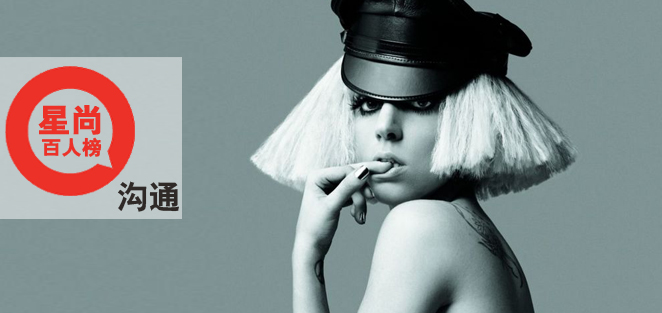
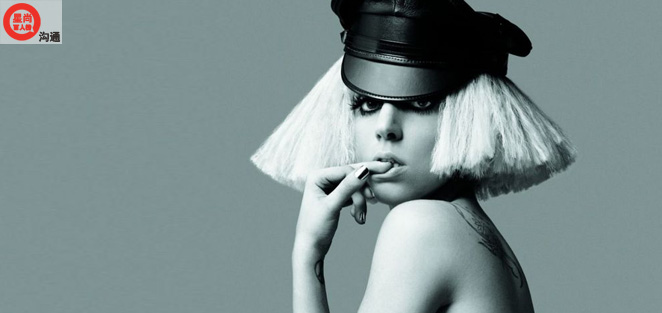
12 29

Changed region(s): [[0.0, 0.1725, 0.2719, 0.7188], [0.0, 0.0, 0.0906, 0.1438]]

diff --git a/public/html/xsvip.html b/public/html/xsvip.html
@@ -1,0 +1,159 @@
+<!DOCTYPE html PUBLIC "-//W3C//DTD XHTML 1.0 Transitional//EN" "http://www.w3.org/TR/xhtml1/DTD/xhtml1-transitional.dtd">
+<html xmlns="http://www.w3.org/1999/xhtml">
+<head>
+<meta http-equiv="Content-Type" content="text/html; charset=utf-8" />
+<title>星尚画报，星尚OK杂志！</title>
+<link href="../stylesheets/enjoyoungok.css" rel="stylesheet" type="text/css" />
+<link href="../stylesheets/thickbox.css" rel="stylesheet" type="text/css" />
+<link href="../stylesheets/ranking.css" rel="stylesheet" type="text/css" />
+<link href="../stylesheets/xsok.css" rel="stylesheet" type="text/css" />
+<script src="../javascripts//jquery-1.1.3.1.pack.js" type="text/javascript"></script>
+<script src="../javascripts/thickbox-compressed.js" type="text/javascript"></script>
+<script src="../javascripts/global.js" type="text/javascript"></script>
+<script type="text/javascript">
+$(function(){
+        $("#KinSlideshow").KinSlideshow({
+                moveStyle:"right",
+                titleBar:{titleBar_height:35,titleBar_bgColor:"#FFFFFF",titleBar_alpha:0.5},
+                titleFont:{TitleFont_size:14,TitleFont_color:"#000000",TitleFont_weight:"bolder"},
+                btn:{btn_bgColor:"#FFFFFF",btn_bgHoverColor:"#000000",btn_fontColor:"#000000",
+                     btn_fontHoverColor:"#FFFFFF",btn_borderColor:"#ffffff",
+                     btn_borderHoverColor:"#000000",btn_borderWidth:1}
+        });
+    })
+
+</script>
+<script type="text/javascript">
+function closereception2j(){
+$("#reception2j").slideUp("normal");
+}
+</script>
+<script type=text/javascript>
+	function setTab03Syn ( i )
+	{
+		selectTab03Syn(i);
+	}
+	
+	function selectTab03Syn ( i )
+	{
+		switch(i){
+			case 1:
+			document.getElementById("TabTab03Con1").style.display="block";
+			document.getElementById("TabTab03Con2").style.display="none";
+			document.getElementById("TabTab03Con3").style.display="none";
+			document.getElementById("font1").style.color="#ffffff";
+			document.getElementById("font2").style.color="#000000";
+			document.getElementById("font3").style.color="#000000";
+			break;
+			case 2:
+			document.getElementById("TabTab03Con1").style.display="none";
+			document.getElementById("TabTab03Con2").style.display="block";
+			document.getElementById("TabTab03Con3").style.display="none";
+			document.getElementById("font1").style.color="#000000";
+			document.getElementById("font2").style.color="#ffffff";
+			document.getElementById("font3").style.color="#000000";
+			break;
+			case 3:
+			document.getElementById("TabTab03Con1").style.display="none";
+			document.getElementById("TabTab03Con2").style.display="none";
+			document.getElementById("TabTab03Con3").style.display="block";
+			document.getElementById("font1").style.color="#000000";
+			document.getElementById("font2").style.color="#000000";
+			document.getElementById("font3").style.color="#ffffff";
+			break;
+		}
+	}
+
+</script>
+</head>
+<body>
+<form>
+  <div class="enjoyoungok">
+    <!--头-->
+    <div class="eyoktop">
+      <!--登录条-->
+      <div class="loginbar"><span style="margin-left:10px;"><strong><a href="#">登录</a><a>|</a><a href="#">注册</a></strong></span><span>
+        <input class="input" name="" type="text" />
+        </span><span>密码：</span><span>
+        <input class="input" name="" type="text" />
+        </span><span>用户名：</span>
+        <div class="blank0"></div>
+      </div>
+      <!--登录结束-->
+      <div ><a href="#"><img src="../images/eyok.jpg" /></a></div>
+      <!--导航tiao-->
+      <div class="oknav">
+        <div class="oknav_a1"><a class="current">首 页</a><a href="#">天 下</a><a href="#">商 业</a><a href="#">文 化</a><a href="#">设 计</a><a href="#">精 英</a><a href="#">时 尚</a><a href="#">指 南</a></div>
+        <div class="oknav_a2"><span >
+          <input name="input" type="text" size="22" />
+          </span><span><a href="#"><img src="../images/eyok02.jpg" /></a></span><span><a href="#"><img src="../images/eyok03.jpg" /></a></span>
+          <div class="blank0"></div>
+        </div>
+        <div class="blank0"></div>
+      </div>
+      <!--导航结束-->
+    </div>
+    <!--头结束-->
+    <!--内容-->
+    <div class="content">
+      <!--跑马灯-->
+      <div id="reception2j">
+        <div class="news2j">
+          <marquee scrollamount="3" onmouseover= "this.stop(); "   onmouseout= "this.start(); ">
+          <a href="#">最新消息最新消息最新消息最新消息最新消息最新消息最新消息最新消息</a>
+          </marquee>
+        </div>
+        <div id="closeb" > <a href="javascript:;" onclick="closereception2j();" title="关闭"><img src="../images/eyok05.jpg" /></a> </div>
+      </div>
+      <!--跑马灯结束-->
+      <!--vip-->
+      <div class="xs_vip">
+      <div class="xsvip01"><img src="../images/xsok/xs10.jpg" /></div>
+      <div class="xsvip02">
+      <span><img src="../images/xsok/xs11.jpg" /></span>
+      <span class="vipspan"><table width="85%" border="0" cellspacing="0" cellpadding="3" style=" line-height:24px; margin:0px 0 0 40px; text-align:left; ">
+  <tr>
+    <td width="20%">卡号：</td>
+    <td width="59%"><input name="" type="text" size="30" /></td>
+    <td width="21%">*必填</td>
+  </tr>
+  <tr>
+    <td>密码：</td>
+    <td><input name="" type="text" size="30" /></td>
+    <td>*必填</td>
+  </tr>
+  <tr>
+    <td>收件人姓名：</td>
+    <td><input name="" type="text" size="30" /></td>
+    <td>*必填</td>
+  </tr>
+  <tr>
+    <td>手机号：</td>
+    <td><input name="" type="text" size="30" /></td>
+    <td>*必填</td>
+  </tr>
+  <tr>
+    <td>详细地址：</td>
+    <td rowspan="2"><textarea name="" cols="24" rows="2" style="height:36px; "></textarea></td>
+    <td>*必填</td>
+  </tr>
+  <tr>
+    <td>&nbsp;</td>
+    <td>&nbsp;</td>
+  </tr>
+</table>
+</span>
+      <span class="vipspan01"><div class="vipspan01l">此卡解释权归星尚传媒有限公司</div><div class="vipspan01r"><a href="#"><img src="../images/xsok/xs14.jpg" /></a></div><div class="blank0"></div></span>
+      </div>
+      <div class="blank20"></div>
+    </div>
+      <!--VIP结束-->
+    </div>
+    <!--内容结束-->
+    <!--底部-->
+    <div class="footer"><span style="background:#dce0df"><a href="ifram/aboutus.html?keepThis=true&amp;TB_iframe=true&amp;height=400&amp;width=605" title="关于我们" class="thickbox">关于我们</a><a href="ifram/contactus.html?keepThis=true&amp;TB_iframe=true&amp;height=400&amp;width=605" title="联系我们" class="thickbox">联系我们</a><a href="ifram/advertising.html?keepThis=true&amp;TB_iframe=true&amp;height=400&amp;width=605" title="广告投放" class="thickbox">广告投放</a><a href="ifram/copyright.html?keepThis=true&amp;TB_iframe=true&amp;height=400&amp;width=605" title="版权声明" class="thickbox">版权声明</a><a href="http://www.enjoyoung.cn/recuritment/" target="_blank">加入我们</a></span><span><a href="http://meishi.enjoyoung.cn/" target="_blank">人气美食</a>|<a href="http://www.enjoyoung.cn/" target="_blank">星尚传媒</a>|<a href="http://www.anni.com/" target="_blank">爱你网</a>|<a href="http://www.smg.cn/" target="_blank">SMG</a></span><span><a class="hui">本站发布的所有内容，未经许可，不得转载，详见《版权申明》-沪ICP备09055423©2009-2014 enjoyoung.cn, 保留所有权利。</a></span></div>
+    <!--底部结束-->
+  </div>
+</form>
+</body>
+</html>

diff --git a/public/html/news_04.html b/public/html/news_04.html
@@ -6,7 +6,7 @@
 <link href="../stylesheets/ifram.css" rel="stylesheet" type="text/css" />
 </head>
 <body>
-<div class="news1"> <span ><a  class="news1title"><b style="color:#F00">传承</b>Sheikh Hamdan bin Mohammed bin Rashid al Maktoum </a></span>
+<div class="news1"> <span><img src="../images/news6.jpg" /></span><span ><a  class="news1title">迪拜王储 Sheikh Hamdan bin Mohammed bin Rashid al Maktoum </a></span>
   <div class="news2">
     <div class="news2right"><span class="share"><a class="hui" href="#">分享</a></span><span class="send"><a class="hui" href="#">发送</a></span><span class="favorites"><a class="hui" href="#">收藏</a></span></div>
     <div class="blank0"></div>
@@ -21,8 +21,9 @@
   <p>除了王子的富有和潇洒，哈曼丹拥有同龄人罕见的政治领导力。2006年，他被任命为迪拜执行议会主席，促成了迪拜的“2015年战略计划”，并热衷于为有特殊需要的人们建立一个“无阻碍的自由社会”。2006年9月，他发起成立了Takamul投资集团，希望能帮助有特殊需求的人士融入主流社会。同年11月，哈曼丹批准了一项前所未有的交通控制体系，目的是为了使迪拜的道路变得更加安全……相比起以慈善为事业的英国威廉王子，哈曼丹显然更富有政治实权，也更懂得驾驭权力的法则。 </p>
   <P>和他的父亲一样，哈曼丹也是个诗人。他的代表诗集《Fazza》集中体现了他的个性，浪漫，且迷恋家庭生活，而他的诗歌多半能带给人快乐、希望，并重温阿联酋的文化根源。据王储本人介绍，“Fazza”在阿联酋方言中有着独特的定义——是指急于帮助别人，愿意站到别人身旁的人。或许，这就是这位充满远大政治前途的王储，对自己的确切定义。</P>
   <p>不用急，未来十年间，哈曼丹王储有足够的时间来证明，自己不仅是位完美的王子，也能是位完美的国王。</p>
-  <div class="news3"><a>2012-12-13</a><a>12:12:12</a></div>
-  <div style="margin-bottom:10px;"><a class="hui">关键词：</a><a href="#" class="red">哈利波特</a></div>
+ <div class="blank30"></div>
+  <!--<div class="news3"><a>2012-12-13</a><a>12:12:12</a></div>
+  <div style="margin-bottom:10px;"><a class="hui">关键词：</a><a href="#" class="red">哈利波特</a></div>-->
   <div class="news2">
     <div class="news2left" ></div>
     <div class="news2right"><span class="share"><a class="hui" href="#">分享</a></span><span class="send"><a class="hui" href="#">发送</a></span><span class="favorites"><a class="hui" href="#">收藏</a></span></div>

diff --git a/public/html/news_01.html b/public/html/news_01.html
@@ -6,7 +6,7 @@
 <link href="../stylesheets/ifram.css" rel="stylesheet" type="text/css" />
 </head>
 <body>
-<div class="news1"> <span ><a  class="news1title"><b style="color:#F00">沟通</b>Lady Gaga 
+<div class="news1"> <span><img src="../images/news4.jpg" /></span><span ><a  class="news1title">Lady Gaga 
 </a></span>
   <div class="news2">
     
@@ -22,9 +22,9 @@
   <p>在成为Lady Gaga之前，她只是纽约一名普通的大学生。4 岁开始学钢琴，13岁写了第一首钢琴曲，17岁被纽约大学艺术学院录取。但突如其来的娱乐工业一夜之间接管了她的全部生活。之后，这个也算走过小清新路线的纽约姑娘一心想取代麦当娜，掌控全世界，为众人膜拜。</p>
   <p>是的，Lady Gaga的基因没变，她依然是人类的一份子。但她的确与众不同，自立了一门新式宗教，把现代娱乐工业带到了一个陌生而大胆的360度视角中。在这个视角中，似乎其他所有娱乐革新者一夜之间都变成了没长大的胆小鬼。</p>
   <p>说她超越了麦当娜，不仅仅因为她辨识度极高的街拍造型、独特的嗓音、狂乱的舞步，以及惊人的单曲下载量，更多是因为她的行为与言说，因为她在网络时代所展现的大胆而怪异的时代美学。她重新定义了反叛与艳俗，并将其高级定制，足让这个羞涩的世界发疯。</p>
-  <p>Lady Gaga创造了这个星球当下最独特的个案。据统计，她在社交网站Facebook上的粉丝有1000万，Twitter上的粉丝也超过600万，而这仅仅只在英语世界。但通过这个个案，我们仿佛也触摸到了未来的癫狂。</p>
-  <div class="news3"><a>2012-12-13</a><a>12:12:12</a></div>
-  <div style="margin-bottom:10px;"><a class="hui">关键词：</a><a href="#" class="red">哈利波特</a></div>
+  <p>Lady Gaga创造了这个星球当下最独特的个案。据统计，她在社交网站Facebook上的粉丝有1000万，Twitter上的粉丝也超过600万，而这仅仅只在英语世界。但通过这个个案，我们仿佛也触摸到了未来的癫狂。</p><div class="blank30"></div>
+  <!--<div class="news3"><a>2012-12-13</a><a>12:12:12</a></div>
+  <div style="margin-bottom:10px;"><a class="hui">关键词：</a><a href="#" class="red">哈利波特</a></div>-->
   <div class="news2">
     <div class="news2left" ></div>
     <div class="news2right"><span class="share"><a class="hui" href="#">分享</a></span><span class="send"><a class="hui" href="#">发送</a></span><span class="favorites"><a class="hui" href="#">收藏</a></span></div>

diff --git a/public/html/jh_02.html b/public/html/jh_02.html
@@ -6,7 +6,7 @@
 <link href="../stylesheets/ifram.css" rel="stylesheet" type="text/css" />
 </head>
 <body>
-<div class="news1"> <span ><a  class="news1title"><b style="color:#F00">传承</b>HRH Prince William of Wales </a></span>
+<div class="news1"> <span><img src="../images/news6.jpg" /></span><span ><a  class="news1title">HRH Prince William of Wales </a></span>
   <div class="news2">
     <div class="news2right"><span class="share"><a class="hui" href="#">分享</a></span><span class="send"><a class="hui" href="#">发送</a></span><span class="favorites"><a class="hui" href="#">收藏</a></span></div>
     <div class="blank0"></div>
@@ -21,8 +21,9 @@
   <p>王子不是一天长成的。威廉犯过所有人会犯的错，也得意于人生的寻常成就。作为一个不懂事的顽童，他会向小伙伴叫嚣：“当我做国王的时候，我将命令我的骑士来把你们的头砍下来”。作为一位出色的学生，他以A等成绩从伊顿公学毕业，又手握苏格兰二级甲等荣誉的文科硕士学位证书，成为“有史以来英国王室最聪明的王子”。作为全世界女孩最想嫁的王子，他将大学里的青梅竹马延续成另一出“皇室灰姑娘传奇”，续写了曾经属于母亲的幸福。皇室公布的订婚照中，威廉与未婚妻不是标准的皇家准夫妻神态，而是亲密无间的甜蜜相拥——这个细节让人没来由地相信，这段爱情经得起风雨。 </p>
   <p>未来十年，就像我们身边最寻常的80后一样，威廉王子必将经历娶妻生子之类的柴米油盐。无论成功或低谷，他的生活都是一部现实版的童话，伴着普通人同微笑，同落泪，同进退。</P>
 
-  <div class="news3"><a>2012-12-13</a><a>12:12:12</a></div>
-  <div style="margin-bottom:10px;"><a class="hui">关键词：</a><a href="#" class="red">哈利波特</a></div>
+  <div class="blank30"></div>
+  <!--<div class="news3"><a>2012-12-13</a><a>12:12:12</a></div>
+  <div style="margin-bottom:10px;"><a class="hui">关键词：</a><a href="#" class="red">哈利波特</a></div>-->
   <div class="news2">
     <div class="news2left" ></div>
     <div class="news2right"><span class="share"><a class="hui" href="#">分享</a></span><span class="send"><a class="hui" href="#">发送</a></span><span class="favorites"><a class="hui" href="#">收藏</a></span></div>

diff --git a/public/html/jh_01.html b/public/html/jh_01.html
@@ -6,7 +6,7 @@
 <link href="../stylesheets/ifram.css" rel="stylesheet" type="text/css" />
 </head>
 <body>
-<div class="news1"> <span ><a  class="news1title"><b style="color:#F00">沟通</b>范冰冰</a></span>
+<div class="news1"><span><img src="../images/news4.jpg" /></span> <span ><a  class="news1title">范冰冰</a></span>
   <div class="news2">
     <div class="news2right"><span class="share"><a class="hui" href="#">分享</a></span><span class="send"><a class="hui" href="#">发送</a></span><span class="favorites"><a class="hui" href="#">收藏</a></span></div>
     <div class="blank0"></div>
@@ -20,8 +20,9 @@
   <p>可以说，这些年来出道的年轻女演员，甚至是男演员都是以范冰冰的发展路径为蓝本，“男版范冰冰”、“年轻版范冰冰”们追随她，模仿她。无论是妖艳的大片妆容，复古的红毯造型，还是舍我其谁的言论，范冰冰都是业内的标杆人物。 </p>
   <p>2010年来，范冰冰不再海量接片，无论是《观音山》、《日照重庆》还是《赵氏孤儿》，她都用心演绎内心坚毅的女性形象。而她投资拍摄的电视剧《武则天》更是将强势女的风范展现得淋漓尽致。随着范冰冰工作室挂靠的博纳影业在美国成功上市，“范爷”已经将未来的视野投向了好莱坞。关于这一点，她说：“博纳在纳斯达克上市，虽然我没有股份，但作为合作方，我们的空间越来越广阔。我们可以向好莱坞融资，也可以向好莱坞投资电影。这比等着好莱坞导演邀请来的更直接更有效。”</P>
 
-  <div class="news3"><a>2012-12-13</a><a>12:12:12</a></div>
-  <div style="margin-bottom:10px;"><a class="hui">关键词：</a><a href="#" class="red">哈利波特</a></div>
+ <div class="blank30"></div>
+  <!--<div class="news3"><a>2012-12-13</a><a>12:12:12</a></div>
+  <div style="margin-bottom:10px;"><a class="hui">关键词：</a><a href="#" class="red">哈利波特</a></div>-->
   <div class="news2">
     <div class="news2left" ></div>
     <div class="news2right"><span class="share"><a class="hui" href="#">分享</a></span><span class="send"><a class="hui" href="#">发送</a></span><span class="favorites"><a class="hui" href="#">收藏</a></span></div>

diff --git a/public/html/jh_03.html b/public/html/jh_03.html
@@ -6,7 +6,7 @@
 <link href="../stylesheets/ifram.css" rel="stylesheet" type="text/css" />
 </head>
 <body>
-<div class="news1"> <span ><a  class="news1title"><b style="color:#F00">创新</b>Pardis Sabeti</a></span>
+<div class="news1"> <span><img src="../images/news5.jpg" /></span><span ><a  class="news1title">Pardis Sabeti</a></span>
   <div class="news2">
     <div class="news2right"><span class="share"><a class="hui" href="#">分享</a></span><span class="send"><a class="hui" href="#">发送</a></span><span class="favorites"><a class="hui" href="#">收藏</a></span></div>
     <div class="blank0"></div>
@@ -23,8 +23,9 @@
   <p>帕蒂丝认为，目前基因技术正处于变革之中。在不久的将来，每个人的基因都能得到迅速测序，甚至他们身上所感染的微生物基因也能得到测序，而流行病学研究者会被大量新信息淹没，下一个考验将出现在计算能力和集体工作方面。</P>
   <P>“在计算能力方面，我们可以开发更为强大的工具，以处理庞大的新数据，寻找与人类疾病问题有关的答案。而在集体工作方面，我们必须拿出团队精神，尝试共同解读这些数据。从这个角度来看，开展研究和组建乐队的本质是一样的。”</P>
 
-  <div class="news3"><a>2012-12-13</a><a>12:12:12</a></div>
-  <div style="margin-bottom:10px;"><a class="hui">关键词：</a><a href="#" class="red">哈利波特</a></div>
+  <div class="blank30"></div>
+  <!--<div class="news3"><a>2012-12-13</a><a>12:12:12</a></div>
+  <div style="margin-bottom:10px;"><a class="hui">关键词：</a><a href="#" class="red">哈利波特</a></div>-->
   <div class="news2">
     <div class="news2left" ></div>
     <div class="news2right"><span class="share"><a class="hui" href="#">分享</a></span><span class="send"><a class="hui" href="#">发送</a></span><span class="favorites"><a class="hui" href="#">收藏</a></span></div>

diff --git a/public/html/index.html b/public/html/index.html
@@ -74,7 +74,7 @@ $("#reception").slideUp("normal");
         <!--跑马灯结束-->
         <!--焦点图-->
         <div class="ff">
-          <div id="KinSlideshow" style="visibility:hidden;"><a href="#" target="_blank"><img src="../images/1.jpg" alt="沟通-Lady Gaga 美国歌手" width="662" height="313" /></a><a href="#" target="_blank"><img src="../images/2.jpg" alt="沟通-姜文 中国导演" width="662" height="313" /></a> <a href="#" target="_blank"><img src="../images/3.jpg" alt="沟通-汤唯 中国演员" width="662" height="313" /></a> <a href="#" target="_blank"><img src="../images/4.jpg" alt="传承-Sheikh Hamdan bin Mohammed bin Rashid al Maktoum 迪拜王储" width="662" height="313" /></a> </div>
+          <div id="KinSlideshow" style="visibility:hidden;"><a href="#" target="_blank"><img src="../images/1.jpg" alt="沟通-Lady Gaga 美国歌手" width="662" height="313" /></a><a href="#" target="_blank"><img src="../images/2.jpg" alt="沟通-姜文 中国导演" width="662" height="313" /></a> <a href="#" target="_blank"><img src="../images/3.jpg" alt="沟通-汤唯 中国演员" width="662" height="313" /></a> <a href="#" target="_blank"><img src="../images/4.jpg" alt="传承-迪拜王储" width="662" height="313" /></a> </div>
         </div>
         <!--焦点图结束-->
         <!--广告投放-->
@@ -123,7 +123,7 @@ $("#reception").slideUp("normal");
         <div class="appreciate"><span><img src="../images/eyok14.jpg" /></span><span style="margin:10px;"><a href="#"><img src="../images/eyok15.jpg" /></a></span></div>
         <!--最近鉴赏结束-->
         <!--小广告-->
-        <div class="ad"><a href="#" target="_blank"><img src="../images/eyok17.jpg" /></a></div>
+        <div class="ad"><a href="xsvip.html"><img src="../images/eyok17.jpg" /></a></div>
         <!--小广告结束-->
         <!--读编往来-->
         <div><img src="../images/eyok18.jpg" />

diff --git a/public/html/news_02.html b/public/html/news_02.html
@@ -6,7 +6,7 @@
 <link href="../stylesheets/ifram.css" rel="stylesheet" type="text/css" />
 </head>
 <body>
-<div class="news1"> <span ><a  class="news1title"><b style="color:#F00">沟通</b>姜文 
+<div class="news1"><span><img src="../images/news4.jpg" /></span> <span ><a  class="news1title">姜文 
 </a></span>
   <div class="news2">
     
@@ -24,10 +24,9 @@
 </p>
   <p>结果证明，姜文一旦拍起观众看得懂的电影，便立马把中国同时代的导演都甩在了身后。 而业内外异口同声的赞赏，让人简直怀疑中国电影近10年来的市场化几乎是一片空白。除了无可挑剔的蒙太奇运用和极富张力的故事营造，《让子弹飞》中一贯的姜文式幽默和雄性荷尔蒙气息，也一扫近几年中国商业大片的烟视媚行和简单下流。
 如何拍摄一部有个性的商业电影，姜文为中国导演树了一标杆。同时我们应该看到，中国电影若要真正繁荣，光靠一两个天才是不行的，而姜文身后严重缺乏与之比肩者。但，幸有姜文，让我们看到中国电影的未来不再只由一群艺术机会主义者、二道贩子或者电影官僚在书写。
-</p>
- 
-  <div class="news3"><a>2012-12-13</a><a>12:12:12</a></div>
-  <div style="margin-bottom:10px;"><a class="hui">关键词：</a><a href="#" class="red">哈利波特</a></div>
+</p><div class="blank30"></div>
+  <!--<div class="news3"><a>2012-12-13</a><a>12:12:12</a></div>
+  <div style="margin-bottom:10px;"><a class="hui">关键词：</a><a href="#" class="red">哈利波特</a></div>-->
   <div class="news2">
     <div class="news2left" ></div>
     <div class="news2right"><span class="share"><a class="hui" href="#">分享</a></span><span class="send"><a class="hui" href="#">发送</a></span><span class="favorites"><a class="hui" href="#">收藏</a></span></div>

diff --git a/public/html/news_03.html b/public/html/news_03.html
@@ -6,7 +6,7 @@
 <link href="../stylesheets/ifram.css" rel="stylesheet" type="text/css" />
 </head>
 <body>
-<div class="news1"> <span ><a  class="news1title"><b style="color:#F00">沟通</b>汤唯 
+<div class="news1"><span><img src="../images/news4.jpg" /></span> <span ><a  class="news1title">汤唯 
 </a></span>
   <div class="news2">
     
@@ -24,8 +24,9 @@
   <p>相比之下，在时尚领域汤唯要高调许多。当章子怡消沉的时候，“国际女星”的市场被撕开了一条口子，汤唯频频出席四大国际时装，与张曼玉一起走红地毯，大方地坐在秀场地第一排。这种做隐形时尚icon，“曲线救国”的策略是未来女明星走红又一新策略。
 </p>
  
-  <div class="news3"><a>2012-12-13</a><a>12:12:12</a></div>
-  <div style="margin-bottom:10px;"><a class="hui">关键词：</a><a href="#" class="red">哈利波特</a></div>
+  <div class="blank30"></div>
+  <!--<div class="news3"><a>2012-12-13</a><a>12:12:12</a></div>
+  <div style="margin-bottom:10px;"><a class="hui">关键词：</a><a href="#" class="red">哈利波特</a></div>-->
   <div class="news2">
     <div class="news2left" ></div>
     <div class="news2right"><span class="share"><a class="hui" href="#">分享</a></span><span class="send"><a class="hui" href="#">发送</a></span><span class="favorites"><a class="hui" href="#">收藏</a></span></div>

diff --git a/public/stylesheets/xsok.css b/public/stylesheets/xsok.css
@@ -30,6 +30,14 @@ body, div, ul, li, form, table, ol, dl, dt, dd { margin:0px; padding:0px; list-s
 .iframe02 a:hover{  font-size:14px; font-weight:bold; margin:0 5px 0 5px; color:#000; text-decoration:none; }
 .iframeb{ width:975px; height:470px; margin:0px; padding:0px; border:none; background:none; background:#981e1d url(../images/xsok/xs18.jpg) no-repeat;}
 .iframel{ width:975px; height:470px; margin:0px; padding:0px; border:none; background:none; background:#0f65ae url(../images/xsok/xs20.jpg) no-repeat;}
+.xs_vip{ width:953px; margin:20px auto 0 auto;}
+.xsvip01{ width:363px; float:left;}
+.xsvip02{ width:590px; float:left;}
+.xsvip02 span{ display:block; margin:0px; padding:0px;}
+.vipspan{ width:590px; height:188px; background:url(../images/xsok/xs12.jpg) no-repeat; font-size:12px; font-weight:bold; color:#FFF; margin:0px; padding:0px;}
+.vipspan01{ width:590px; height:119px; background:url(../images/xsok/xs13.jpg) no-repeat;}
+.vipspan01l{ margin:0 0 0 124px; float:left; font-size:14px; color:#FFF; font-weight:bold; line-height:28px; background-color:#000; padding:0 5px 0 5px; display:inline;}
+.vipspan01r{ margin:10px 0 0 90px; float:left;}
 
 /*分页*/
 DIV.yellow { padding:7px 7px 7px 7px; text-align:left; }

diff --git a/public/stylesheets/enjoyoungok.css b/public/stylesheets/enjoyoungok.css
@@ -1,7 +1,7 @@
 @charset "utf-8";
 /* CSS Document */
 
-body { font-family: "宋体"; font-size:12px; color:#000; background:url(../images/bg.jpg) repeat-x #FFF; }
+body { font-family: "宋体"; font-size:12px; color:#000; }
 a { color:#000; text-decoration:none; }
 a:hover { color:#000; text-decoration:none; }
 div, form, img, ul, ol, li, dl, dt, dd { margin: 0; padding: 0; border: 0; }
